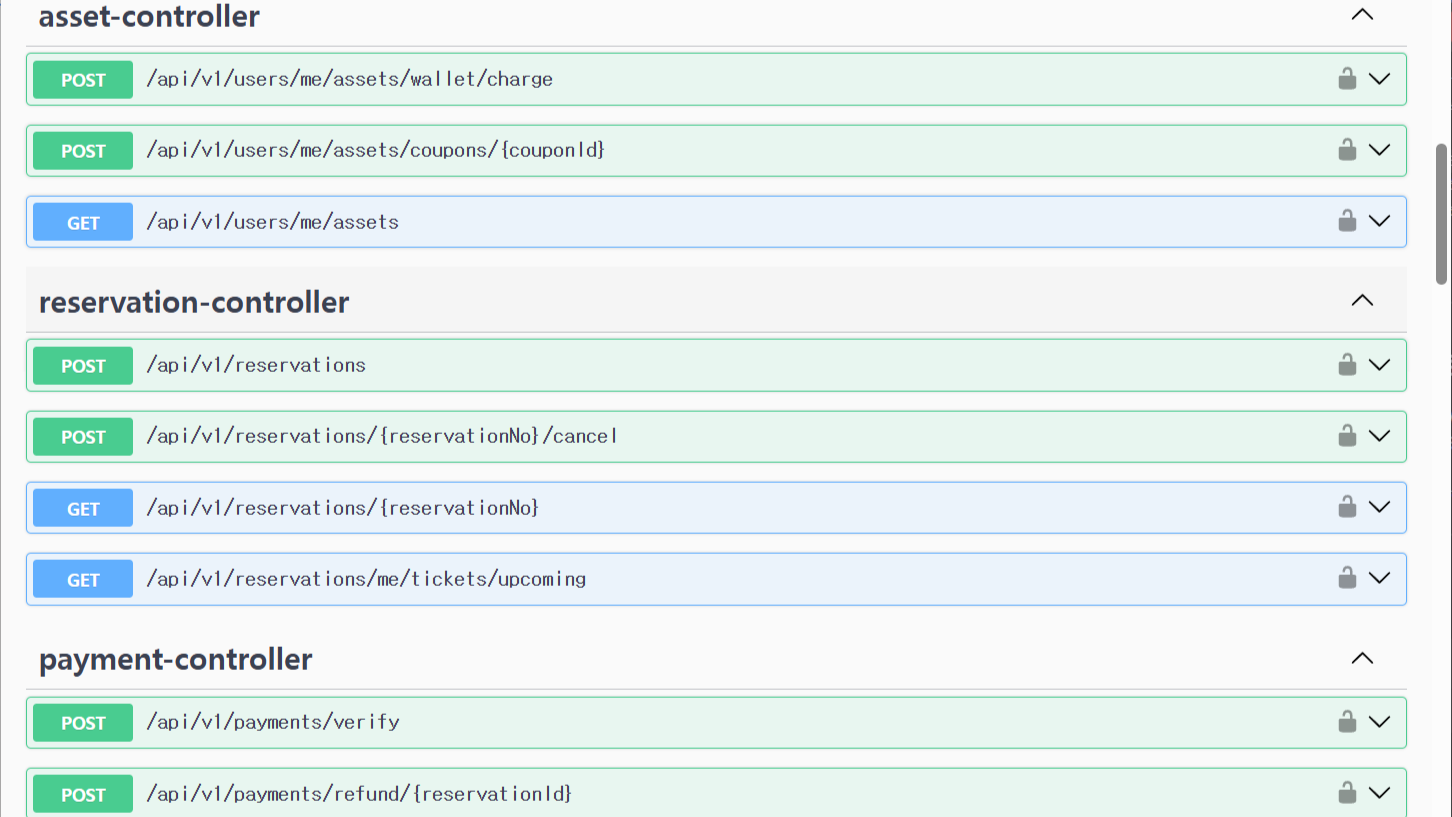
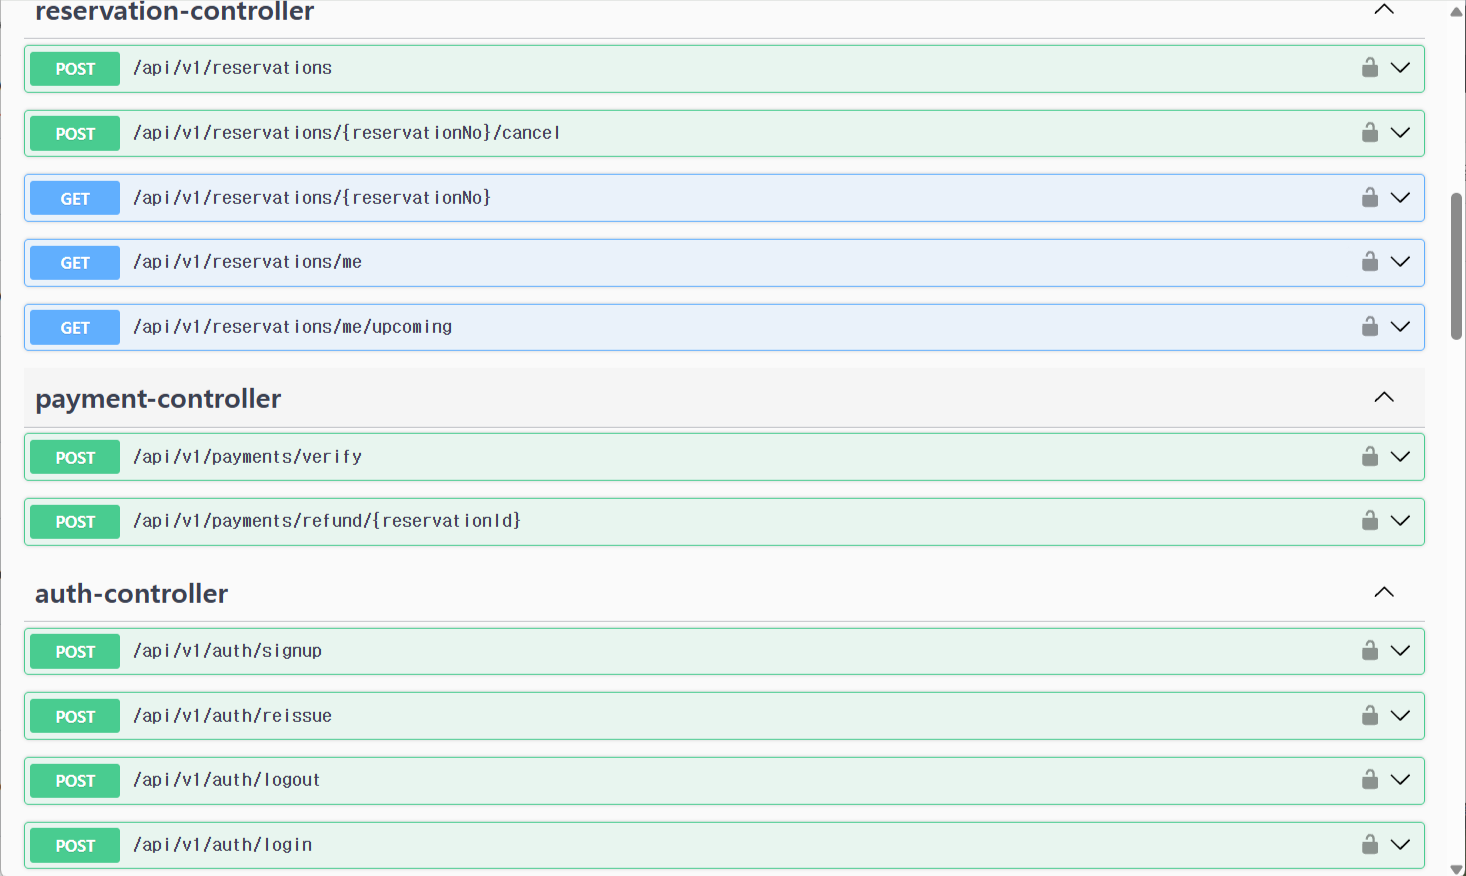
docs: 문서 수정

Changed region(s): [[0.0, 0.0, 1.0, 1.0], [0.9917, 0.0, 1.0, 0.0306]]

diff --git a/README.md b/README.md
@@ -68,38 +68,38 @@
 <details>
 <summary><b>🔍 전체 API 명세표</b></summary>
 
-| 도메인 | HTTP Method | API URI | 설명 |
-| :--- | :---: | :--- | :--- |
-| **Auth** | `POST` | `/api/v1/auth/signup` | 회원가입 |
-| | `POST` | `/api/v1/auth/login` | 로그인 |
-| | `POST` | `/api/v1/auth/logout` | 로그아웃 |
-| | `POST` | `/api/v1/auth/reissue` | JWT 토큰 재발급 |
-| **User** | `GET` | `/api/v1/users/me` | 내 프로필 조회 |
-| | `PUT` | `/api/v1/users/me` | 프로필 정보 수정 |
-| | `PUT` | `/api/v1/users/me/password` | 비밀번호 변경 |
-| | `DELETE` | `/api/v1/users/me` | 회원 탈퇴 |
-| | `GET` | `/api/v1/users/me/reservations` | 내 예매 내역 조회 |
-| **Asset** | `GET` | `/api/v1/users/me/assets` | 내 자산(지갑/쿠폰) 조회 |
-| | `POST` | `/api/v1/users/me/assets/wallet/charge` | 지갑 잔액 충전 |
-| | `POST` | `/api/v1/users/me/assets/coupons/{couponId}` | 쿠폰 발급 |
-| **Movie** | `GET` | `/api/v1/movies` | 전체 영화 목록 조회 |
-| | `GET` | `/api/v1/movies/now-playing` | 현재 상영작 목록 조회 |
-| | `GET` | `/api/v1/movies/{movieId}` | 영화 상세 정보 조회 |
-| **Schedule** | `GET` | `/api/v1/movies/{movieId}/schedules` | 특정 영화의 스케줄 조회 |
-| | `GET` | `/api/v1/schedules/{scheduleId}/seats` | 특정 스케줄의 잔여 좌석 조회 |
-| **Reservation**| `POST` | `/api/v1/reservations` | 선착순 좌석 예매 생성 |
-| | `GET` | `/api/v1/reservations/{reservationNo}` | 예매 단건 상세 조회 |
-| | `POST` | `/api/v1/reservations/{reservationNo}/cancel` | 예매 취소 |
-| | `GET` | `/api/v1/reservations/me/tickets/upcoming` | 다가오는 모바일 티켓 조회 |
-| **Payment** | `POST` | `/api/v1/payments/verify` | 결제 승인 및 검증 |
-| | `POST` | `/api/v1/payments/refund/{reservationId}` | 결제 환불 처리 |
-| **Theater** | `GET` | `/api/v1/theaters` | 상영관 목록 조회 |
-| **Coupon** | `GET` | `/api/v1/coupons` | 전체 쿠폰 목록 조회 |
-| **Admin** | `POST` | `/api/v1/admin/movies/sync` | 영화 데이터 동기화 (외부 API) |
-| | `POST` | `/api/v1/admin/schedules/auto-generate` | 스케줄 자동 생성 |
-| | `POST` | `/api/v1/admin/coupons` | 관리자 쿠폰 생성 |
+| 도메인 | HTTP Method | API URI                                           | 설명 |
+| :--- | :---: |:--------------------------------------------------| :--- |
+| **Auth** | `POST` | `/api/v1/auth/signup`                             | 회원가입 |
+| | `POST` | `/api/v1/auth/login`                              | 로그인 |
+| | `POST` | `/api/v1/auth/logout`                             | 로그아웃 |
+| | `POST` | `/api/v1/auth/reissue`                            | JWT 토큰 재발급 |
+| **User** | `GET` | `/api/v1/users/me`                                | 내 프로필 조회 |
+| | `PUT` | `/api/v1/users/me`                                | 프로필 정보 수정 |
+| | `PUT` | `/api/v1/users/me/password`                       | 비밀번호 변경 |
+| | `DELETE` | `/api/v1/users/me`                                | 회원 탈퇴 |
+| **Asset** | `GET` | `/api/v1/users/me/assets`                         | 내 자산(지갑/쿠폰) 조회 |
+| | `POST` | `/api/v1/users/me/assets/wallet/charge`           | 지갑 잔액 충전 |
+| | `POST` | `/api/v1/users/me/assets/coupons/{couponId}`      | 쿠폰 발급 |
+| **Movie** | `GET` | `/api/v1/movies`                                  | 전체 영화 목록 조회 |
+| | `GET` | `/api/v1/movies/now-playing`                      | 현재 상영작 목록 조회 |
+| | `GET` | `/api/v1/movies/{movieId}`                        | 영화 상세 정보 조회 |
+| **Schedule** | `GET` | `/api/v1/movies/{movieId}/schedules`              | 특정 영화의 스케줄 조회 |
+| | `GET` | `/api/v1/schedules/{scheduleId}/seats`            | 특정 스케줄의 잔여 좌석 조회 |
+| **Reservation**| `POST` | `/api/v1/reservations`                            | 선착순 좌석 예매 생성 |
+| | `GET` | `/api/v1/reservations/{reservationNo}`            | 예매 단건 상세 조회 |
+| | `POST` | `/api/v1/reservations/{reservationNo}/cancel`     | 예매 취소 |
+| | `GET` | `/api/v1/reservations/me`                          | 내 예매 내역 조회 |
+| | `GET` | `/api/v1/reservations/me/upcoming`                | 다가오는 모바일 티켓 조회 |
+| **Payment** | `POST` | `/api/v1/payments/verify`                         | 결제 승인 및 검증 |
+| | `POST` | `/api/v1/payments/refund/{reservationId}`         | 결제 환불 처리 |
+| **Theater** | `GET` | `/api/v1/theaters`                                | 상영관 목록 조회 |
+| **Coupon** | `GET` | `/api/v1/coupons`                                 | 전체 쿠폰 목록 조회 |
+| **Admin** | `POST` | `/api/v1/admin/movies/sync`                       | 영화 데이터 동기화 (외부 API) |
+| | `POST` | `/api/v1/admin/schedules/auto-generate`           | 스케줄 자동 생성 |
+| | `POST` | `/api/v1/admin/coupons`                           | 관리자 쿠폰 생성 |
 | | `POST` | `/api/v1/admin/users/{userId}/coupons/{couponId}` | 특정 유저에게 쿠폰 지급 |
-| | `GET` | `/api/v1/admin/theaters/options` | 관리자용 상영관 옵션 조회 |
-| | `GET` | `/api/v1/admin/movies/options` | 관리자용 영화 옵션 조회 |
+| | `GET` | `/api/v1/admin/theaters/options`                  | 관리자용 상영관 옵션 조회 |
+| | `GET` | `/api/v1/admin/movies/options`                    | 관리자용 영화 옵션 조회 |
 
 </details>
